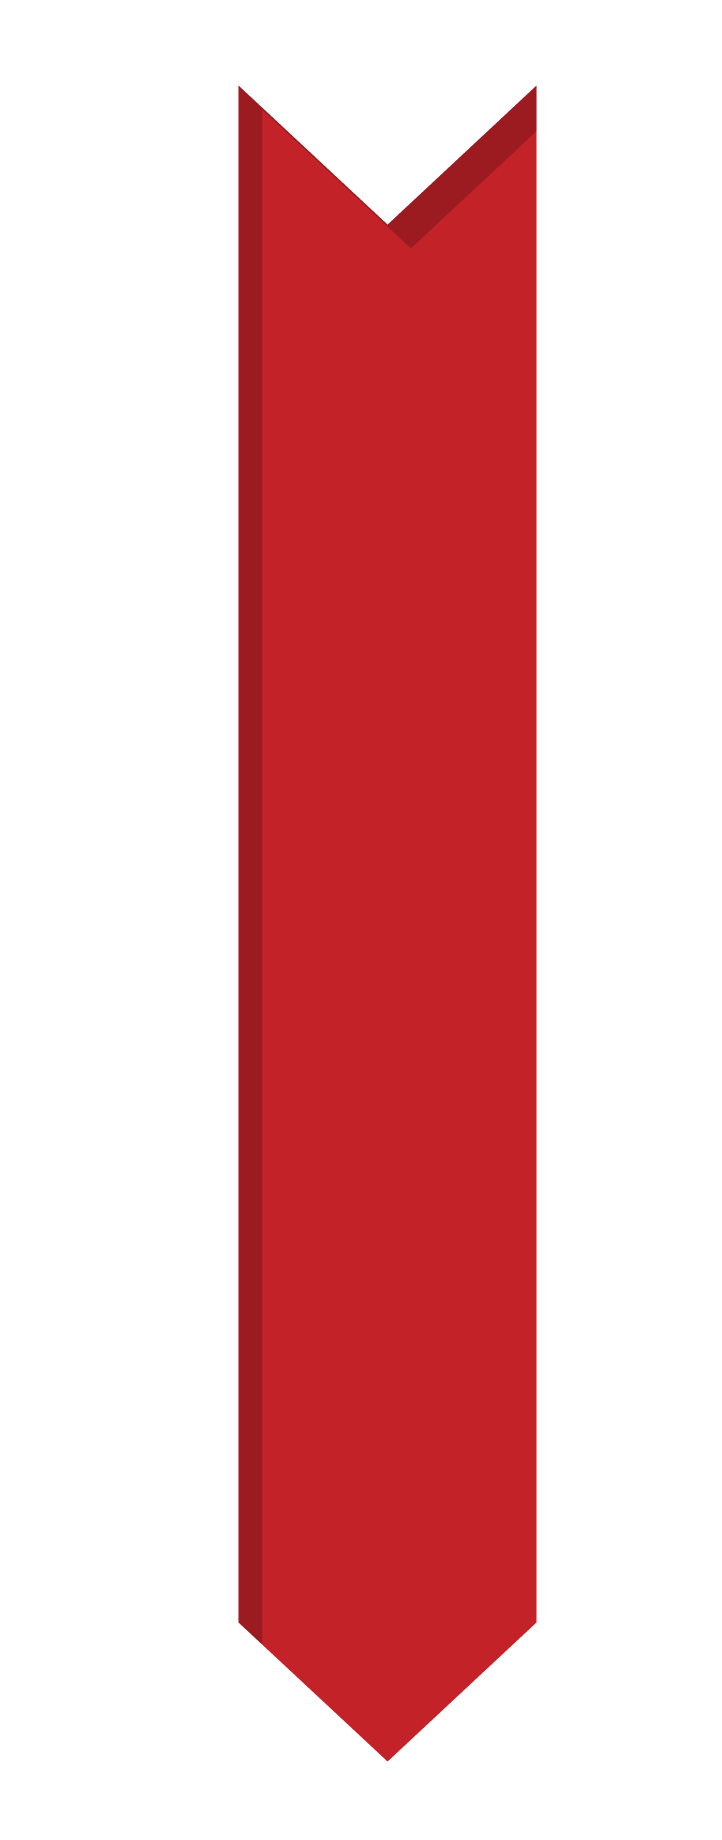
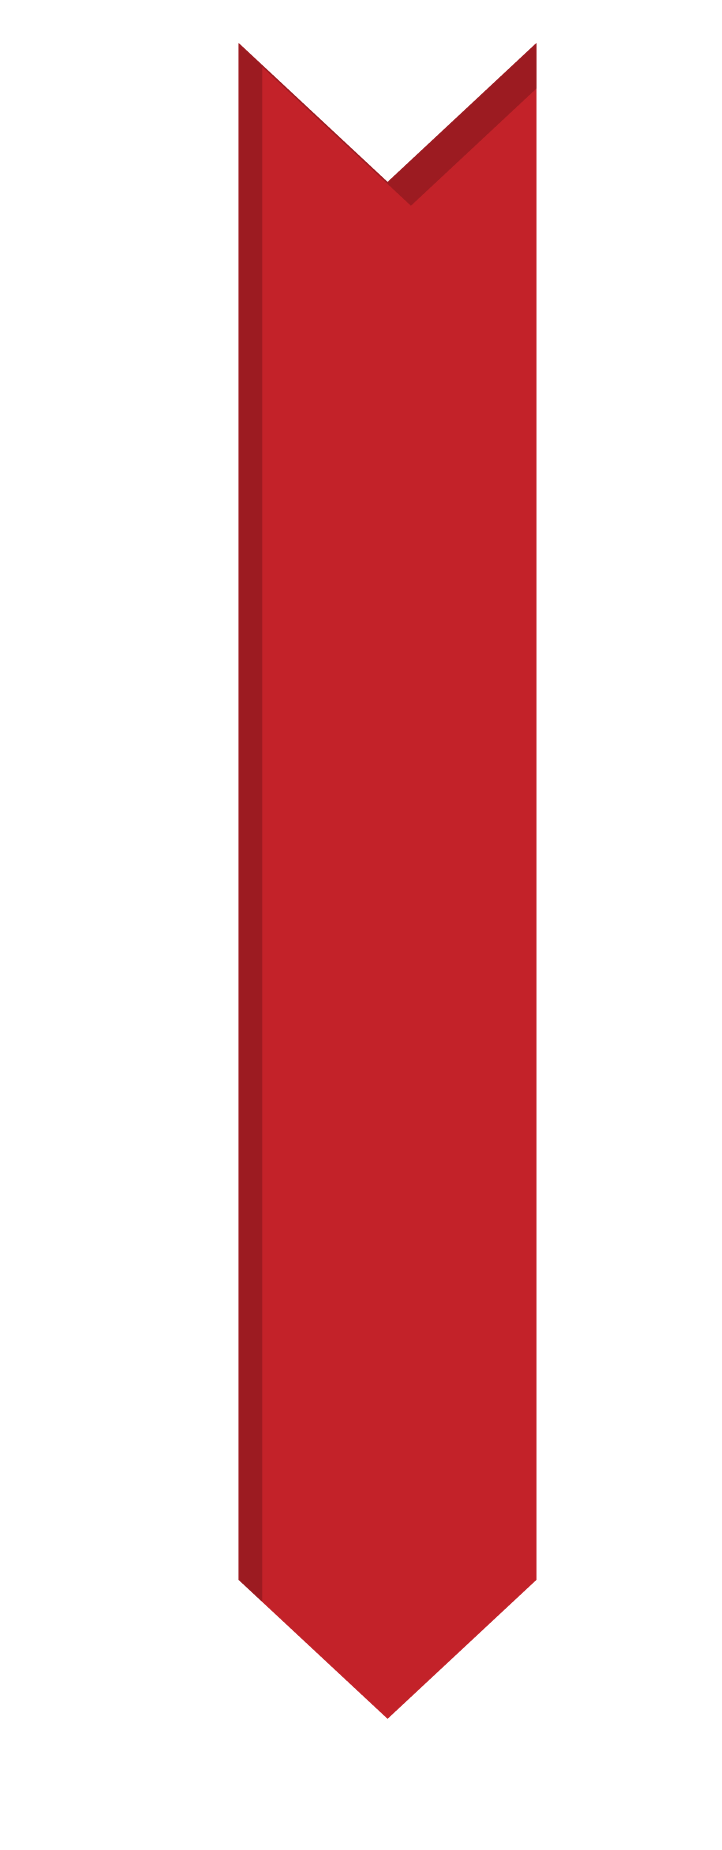
DateCle modif

Changed region(s): [[0.3352, 0.031, 0.7618, 0.1549], [0.3352, 0.8364, 0.7618, 0.9603]]

diff --git a/src/app/(nousConnaitre)/dateCles/page.js b/src/app/(nousConnaitre)/dateCles/page.js
@@ -2,7 +2,7 @@
 
 export default function Dates() {
   return (
-    <main className="h-[100rem] md:h-[230rem] p-4 mb-10 md:mb-40">
+    <main className="h-[170rem] md:h-[170rem] sm:h-[130rem] p-4 mb-10 md:mb-40 sm:mb-20">
       {/* Header Section */}
       <header className="relative mt-4 p-4 text-2xl md:text-4xl font-bold text-center mb-16 uppercase">
         <h1>Dates Clés</h1>
@@ -10,216 +10,191 @@ export default function Dates() {
       </header>
 
       <section className="relative grid justify-items-center mb-20 md:mb-40">
-        {/* Première image superposée */}
-        <div className="relative ml-[8rem]">
-          <img
-            src="/dateCles/site bab rayan dates clés-02.png"
-            alt="element"
-            className="w-[40rem] h-[20rem]"
-          />
+        {/* Première division 2014 */}
+        <div className="flex flex-col items-center">
+          <div className="relative ml-[7.5rem] md:ml-[7.5rem] sm:ml-[5rem]">
+            <img
+              src="/dateCles/site bab rayan dates clés-02.png"
+              alt="element"
+              className="w-[30rem] h-[15rem] md:w-[30rem] md:h-[15rem] sm:w-[20rem] sm:h-[10rem]"
+            />
+          </div>
+          <div className="relative grid place-items-start mt-4 ml-[23rem] md:ml-[23rem] sm:ml-[19rem]">
+            <ul className="list-disc list-inside text-left text-sm md:text-sm sm:text-xs">
+              <li className="pl-[1rem]">Création de l'association Bab Rayan</li>
+              <li className="pl-[1rem]">
+                Partenariat avec l'académie <br />
+                régionale de l'éducation et de la <br />
+                formation de la région du Grand <br />
+                Casablanca et l'INDH
+              </li>
+              <li className="pl-[1rem]">Lancement du Ftour Bab Rayan</li>
+            </ul>
+          </div>
+          <div className="absolute top-[8rem] md:top-[8rem] sm:top-[5rem] left-1/2 transform -translate-x-1/2">
+            <img
+              src="/dateCles/site bab rayan dates clés-09.png"
+              alt="fleche"
+              className="w-[6rem] h-[20rem] md:w-[6rem] md:h-[20rem] sm:w-[4rem] sm:h-[15rem]"
+            />
+          </div>
         </div>
 
-        {/* Texte sous l'image à gauche */}
-        <div className="relative grid place-items-start  ml-[22rem]">
-          <ul className="list-disc list-inside text-left">
-            <li className="pl-[1rem]">Création de l'association Bab Rayan</li>
-            <li className="pl-[1rem]">
-              Partenariat avec l'académie <br />
-              régionale de l'éducation et de la <br />
-              formation de la région du Grand <br />
-              Casablanca et l'INDH
-            </li>
-            <li className="pl-[1rem]">Lancement du Ftour Bab Rayan</li>
-          </ul>
+        {/* Deuxième division 2015 */}
+        <div className="flex flex-col items-center">
+          <div className="relative -ml-[9rem] md:-ml-[9rem] sm:-ml-[6rem]">
+            <img
+              src="/dateCles/site bab rayan dates clés-03.png"
+              alt="element"
+              className="w-[30rem] h-[15rem] md:w-[30rem] md:h-[15rem] sm:w-[20rem] sm:h-[10rem]"
+            />
+          </div>
+          <div className="relative grid place-items-start mt-4 -ml-[18rem] md:-ml-[18rem] sm:-ml-[14rem]">
+            <ul className="list-disc list-inside text-sm md:text-sm sm:text-xs">
+              <li>
+                Ouverture du foyer Bab Rayan et <br /> accueil des enfants
+              </li>
+            </ul>
+          </div>
+          <div className="absolute top-[31rem] md:top-[31rem] sm:top-[22rem] left-1/2 transform -translate-x-1/2">
+            <img
+              src="/dateCles/yellowArrow.png"
+              alt="element"
+              className="w-[6rem] h-[20rem] md:w-[6rem] md:h-[20rem] sm:w-[4rem] sm:h-[15rem]"
+            />
+          </div>
         </div>
 
-        {/* Deuxième image (flèche) red*/}
-        <div className="absolute top-[10rem] -ml-[2rem]">
-          <img
-            src="/dateCles/site bab rayan dates clés-09.png"
-            alt="fleche"
-            className="w-[8rem] h-[25rem]"
-          />
+        {/* Troisième division 2016 */}
+        <div className="flex flex-col items-center">
+          <div className="relative mt-12 ml-[8rem] md:ml-[8rem] sm:ml-[5.5rem]">
+            <img
+              src="/dateCles/site bab rayan dates clés-04.png"
+              alt="element"
+              className="w-[30rem] h-[15rem] md:w-[30rem] md:h-[15rem] sm:w-[20rem] sm:h-[10rem]"
+            />
+          </div>
+          <div className="relative grid place-items-start mt-4 ml-[23rem] md:ml-[23rem] sm:ml-[16rem]">
+            <ul className="list-disc list-inside text-left text-sm md:text-sm sm:text-xs">
+              <li>
+                Premiers Partenariats avec des <br /> institutions publiques et
+                privées
+              </li>
+            </ul>
+          </div>
+          <div className="absolute top-[53rem] md:top-[53rem] sm:top-[38.5rem] left-1/2 transform -translate-x-1/2">
+            <img
+              src="/dateCles/site bab rayan dates clés-09.png"
+              alt="fleche"
+              className="w-[6rem] h-[20rem] md:w-[6rem] md:h-[20rem] sm:w-[4rem] sm:h-[15rem]"
+            />
+          </div>
         </div>
 
-
-        {/* Deuxième image superposée */}
-        <div className="relative mt-1 mr-[14rem]">
-          <img
-            src="/dateCles/site bab rayan dates clés-03.png"
-            alt="element"
-            className="w-[40rem] h-[20rem]"
-          />
-        </div>
-        <div className="relative grid -ml-[30rem]">
-          <ul className="list-disc list-inside ">
-          <li>
-              Ouverture du foyer Bab Rayan et <br /> accueil des enfants
-          </li>
-          </ul>
-        </div>
-
-        {/* Troisième image (flèche) Yellow */}
-        <div className="absolute top-[40rem] -ml-[2rem]">
-          <img
-            src="/dateCles/yellowArrow.png"
-            alt="element"
-            className="w-[8rem] h-[25rem]"
-          />
-        </div>
-
-<br/>
-<br/>
-        <div className="relative mt-4 ml-[8.5rem]">
-          <img
-            src="/dateCles/site bab rayan dates clés-04.png"
-            alt="element"
-            className="w-[40rem] h-[20rem]"
-          />
+        {/* Quatrième division 2018 */}
+        <div className="flex flex-col items-center">
+          <div className="relative mt-12 -ml-[8.5rem] md:-ml-[8.5rem] sm:-ml-[5.7rem]">
+            <img
+              src="/dateCles/site bab rayan dates clés-05.png"
+              alt="element"
+              className="w-[30rem] h-[15rem] md:w-[30rem] md:h-[15rem] sm:w-[20rem] sm:h-[10rem]"
+            />
+          </div>
+          <div className="relative grid place-items-start mt-4 -ml-[20rem] md:-ml-[20rem] sm:-ml-[15rem]">
+            <ul className="list-disc list-inside text-sm md:text-sm sm:text-xs">
+              <li>
+                Ouverture de l'école Palmier <br /> (préscolaire et primaire)
+              </li>
+            </ul>
+          </div>
+          <div className="absolute top-[74rem] md:top-[74rem] sm:top-[54rem] left-1/2 transform -translate-x-1/2">
+            <img
+              src="/dateCles/yellowArrow.png"
+              alt="element"
+              className="w-[6rem] h-[20rem] md:w-[6rem] md:h-[20rem] sm:w-[4rem] sm:h-[15rem]"
+            />
+          </div>
         </div>
 
-        <div className="relative grid place-items-start  ml-[22rem]">
-          <ul className="list-disc list-inside text-left">
-          <li>
-              Premiers Partenariats avec des <br /> institutions publiques
-              et privées
-          </li>
-          </ul>
+        {/* Cinquième division 2021 */}
+        <div className="flex flex-col items-center">
+          <div className="relative mb-6 mt-10 ml-[9.5rem] md:ml-[9.5rem] sm:ml-[6.2rem]">
+            <img
+              src="/dateCles/site bab rayan dates clés-06.png"
+              alt="element"
+              className="w-[30rem] h-[15rem] md:w-[30rem] md:h-[15rem] sm:w-[20rem] sm:h-[10rem]"
+            />
+          </div>
+          <div className="relative grid place-items-start mt-4 ml-[17rem] md:ml-[17rem] sm:ml-[12rem]">
+            <ul className="list-disc list-inside text-left text-sm md:text-sm sm:text-xs">
+              <li>
+                Reconnaissance <br /> de l'utilité publique
+              </li>
+            </ul>
+          </div>
+          <div className="absolute top-[96rem] md:top-[96rem] sm:top-[70rem] left-1/2 transform -translate-x-1/2">
+            <img
+              src="/dateCles/site bab rayan dates clés-09.png"
+              alt="fleche"
+              className="w-[6rem] h-[20rem] md:w-[6rem] md:h-[20rem] sm:w-[4rem] sm:h-[15rem]"
+            />
+          </div>
         </div>
 
-        <div className="absolute top-[67rem] -ml-[2rem]">
-          <img
-            src="/dateCles/site bab rayan dates clés-09.png"
-            alt="fleche"
-            className="w-[8rem] h-[25rem]"
-          />
-        </div>
-        
-
-          <br/>
-          <br/>
-          <br/>
-          <br/>
-
-        <div className="relative mt-1 mr-[13.5rem]">
-          <img
-            src="/dateCles/site bab rayan dates clés-05.png"
-            alt="element"
-            className="w-[40rem] h-[20rem]"
-          />
-        </div>
-        <div className="relative grid -ml-[34rem]">
-          <ul className="list-disc list-inside ">
-          <li>
-            Ouverture de l'école Palmier <br /> (préscolaire et primaire)
-          </li>
-          </ul>
+        {/* Sixième division 2022 */}
+        <div className="flex flex-col items-center">
+          <div className="relative mt-12 -ml-[8.5rem] md:-ml-[8.5rem] sm:-ml-[5.7rem]">
+            <img
+              src="/dateCles/site bab rayan dates clés-07.png"
+              alt="element"
+              className="w-[30rem] h-[15rem] md:w-[30rem] md:h-[15rem] sm:w-[20rem] sm:h-[10rem]"
+            />
+          </div>
+          <div className="relative grid place-items-start mt-4 -ml-[20rem] md:-ml-[20rem] sm:-ml-[15rem]">
+            <ul className="list-disc list-inside text-sm md:text-sm sm:text-xs">
+              <li>
+                Ouverture du Centre de formation et <br /> d'insertion
+                professionnelle (CFI) et <br /> signature de conventions publiques{" "}
+                <br /> et privées
+              </li>
+            </ul>
+          </div>
+          <div className="absolute top-[118rem] md:top-[118rem] sm:top-[87rem] left-1/2 transform -translate-x-1/2">
+            <img
+              src="/dateCles/yellowArrow.png"
+              alt="element"
+              className="w-[6rem] h-[20rem] md:w-[6rem] md:h-[20rem] sm:w-[4rem] sm:h-[15rem]"
+            />
+          </div>
         </div>
 
-
-        {/* Troisième image (flèche) Yellow */}
-        <div className="absolute top-[97rem] -ml-[2rem]">
-          <img
-            src="/dateCles/yellowArrow.png"
-            alt="element"
-            className="w-[8rem] h-[25rem]"
-          />
+        {/* Septième division 2024 */}
+        <div className="flex flex-col items-center">
+          <div className="relative mt-4 ml-[10rem] md:ml-[10rem] sm:ml-[6.5rem]">
+            <img
+              src="/dateCles/site bab rayan dates clés-08.png"
+              alt="element"
+              className="w-[30rem] h-[15rem] md:w-[30rem] md:h-[15rem] sm:w-[20rem] sm:h-[10rem]"
+            />
+          </div>
+          <div className="relative grid place-items-start mt-4 ml-[20rem] md:ml-[20rem] sm:ml-[18rem]">
+            <ul className="list-disc list-inside text-left text-sm md:text-sm sm:text-xs">
+              <li>
+                Remise des diplômes de la 2ème <br /> promotion du CFI
+              </li>
+              <li>
+                Projet de développement <br /> "École du numérique"
+              </li>
+            </ul>
+          </div>
+          <div className="absolute top-[141rem] md:top-[141rem] sm:top-[104rem] left-1/2 transform -translate-x-1/2">
+            <img
+              src="/dateCles/site bab rayan dates clés-09.png"
+              alt="fleche"
+              className="w-[6rem] h-[20rem] md:w-[6rem] md:h-[20rem] sm:w-[4rem] sm:h-[15rem]"
+            />
+          </div>
         </div>
-
-          <br/>
-          <br/>
-          <br/>
-
-        <div className="relative ml-[10.5rem]">
-          <img
-            src="/dateCles/site bab rayan dates clés-06.png"
-            alt="element"
-            className="w-[40rem] h-[20rem]"
-          />
-        </div>
-
-        {/* Texte sous l'image à gauche */}
-        <div className="relative grid place-items-start ml-[14rem]">
-          <ul className="list-disc list-inside text-left">
-          <li>
-            Reconnaissance <br /> de l'utilité publique
-          </li>
-          </ul>
-        </div>
-
-        {/* Deuxième image (flèche) red*/}
-        <div className="absolute top-[124rem] -ml-[2rem]">
-          <img
-            src="/dateCles/site bab rayan dates clés-09.png"
-            alt="fleche"
-            className="w-[8rem] h-[25rem]"
-          />
-        </div>
-
-          <br/>
-          <br/>
-          <br/>
-          <br/>
-          
-        <div className="relative mt-1 mr-[13rem]">
-          <img
-            src="/dateCles/site bab rayan dates clés-07.png"
-            alt="element"
-            className="w-[40rem] h-[20rem]"
-          />
-        </div>
-        <div className="relative grid -ml-[34rem]">
-          <ul className="list-disc list-inside ">
-          <li>
-              Ouverture du Centre de formation et <br /> d'insertion
-              professionnelle (CFI) et <br /> signature de conventions
-               publiques <br /> et privées
-          </li>
-          </ul>
-        </div>
-
-        {/* Troisième image (flèche) Yellow */}
-        <div className="absolute top-[153rem] -ml-[2rem]">
-          <img
-            src="/dateCles/yellowArrow.png"
-            alt="element"
-            className="w-[8rem] h-[25rem]"
-          />
-        </div>
-
-        <br/>
-        <br/>
-        
-        <div className="relative ml-[11.5rem]">
-          <img
-            src="/dateCles/site bab rayan dates clés-08.png"
-            alt="element"
-            className="w-[40rem] h-[20rem]"
-          />
-        </div>
-
-        <div className="relative grid place-items-start  ml-[22rem]">
-          <ul className="list-disc list-inside text-left">
-          <li>
-                  Remise des diplômes de la 2ème <br /> promotion du CFI
-                </li>
-                <li>
-                  Projet de développement <br /> "École du numérique"
-                </li>
-          </ul>
-        </div>
-
-        {/* Deuxième image (flèche) red*/}
-        <div className="absolute top-[182rem] -ml-[2rem] ">
-          <img
-            src="/dateCles/site bab rayan dates clés-09.png"
-            alt="fleche"
-            className="w-[8rem] h-[25rem]"
-          />
-        </div>
-        
-        
-        
       </section>
     </main>
   );
